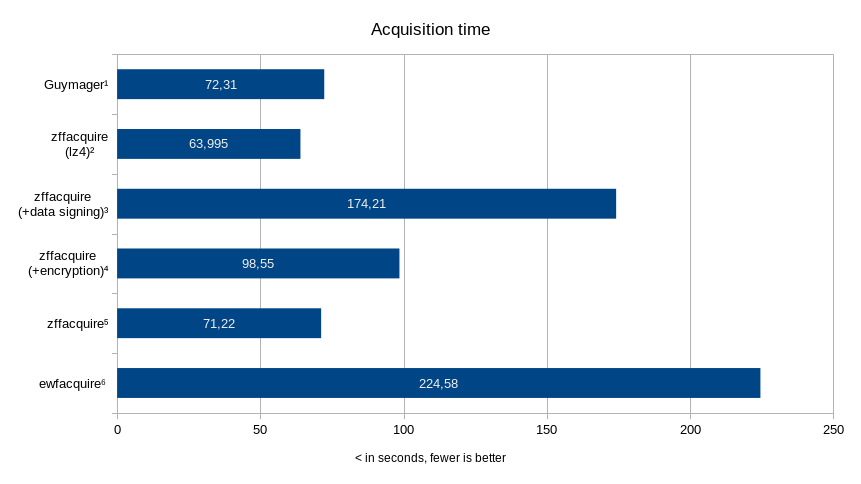
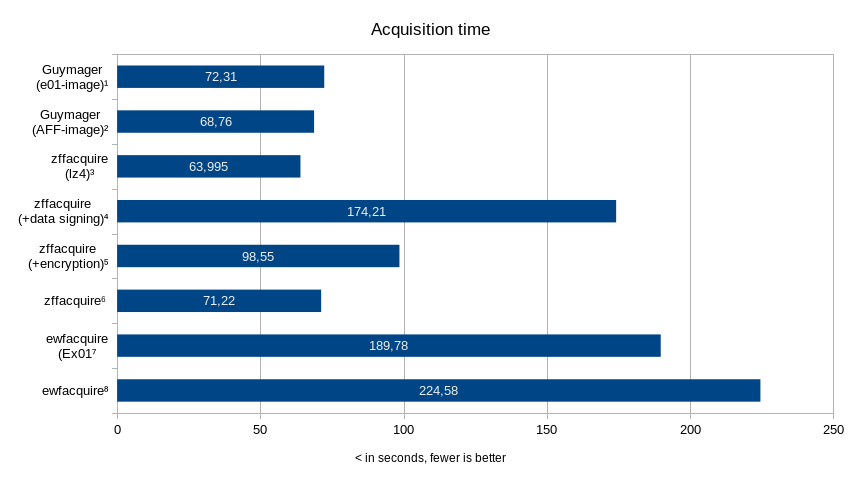
comparision to aff and Ex01 images added to benchmarks

Changed region(s): [[0.0302, 0.4959, 0.9059, 0.8368], [0.0, 0.124, 0.7247, 0.4649]]

diff --git a/README.md b/README.md
@@ -29,16 +29,18 @@ Input and output storage device was the internal NVMe.
 The following benchmark was created for a \~20GB prebuilt image, which was generated using the script under benchmarks/example01.sh.
 ![Acquisition time](https://github.com/ph0llux/zff/blob/master/benchmark/acquisition_time.png?raw=true)
 \
-¹Using Guymager 0.8.12, with MD5 hash calculation, without "HashVerifyDest".\
-²using ```zffacquire -i raw/example01.dd -o zff_lz4 -z lz4```\
-³using ```zffacquire -i raw/example01.dd -o zff -S```\
-⁴using ```zffacquire -i raw/example01.dd -o zff -p 123```\
-⁵using ```zffacquire -i raw/example01.dd -o zff```\
-⁶using ```ewfacquire example01.dd -t example01_ewf -b 64 -c fast -S 7.9EiB -u```, using ewfacquire 20171104.\
+¹Using Guymager 0.8.12, with the default guymager.cfg, MD5 hash calculation, without "HashVerifyDest".\
+²Using Guymager 0.8.12, with enabled Aff support and Aff compression level 1 in guymager.cfg, with MD5 hash calculation, without "HashVerifyDest".\
+³using ```zffacquire -i raw/example01.dd -o zff_lz4 -z lz4```\
+⁴using ```zffacquire -i raw/example01.dd -o zff -S```\
+⁵using ```zffacquire -i raw/example01.dd -o zff -p 123```\
+⁶using ```zffacquire -i raw/example01.dd -o zff```\
+⁷using ```ewfacquire example01.dd -t example01_ewf -f encase7-v2 -b 64 -c fast -S 7.9EiB -u```\
+⁸using ```ewfacquire example01.dd -t example01_ewf -b 64 -c fast -S 7.9EiB -u```, using ewfacquire 20171104.\
 
 As you can see, there are hardly any differences worth mentioning between the dump using Guymager and zffacquire. Using zffacquire with the default values gives no performance disadvantage. The situation is different, of course, with an additional signature operation (but the same would also apply to Guymager with "HashVerifyDest" and/or "HashVerifySrc" enabled).\
 \
-The two fastest images (The Guymager-e01-image, acquired in the benchmark process above and the zff-z01-image acquired with the default options of zffacquire, see above at number 4) were used as the basis for the read speed benchmark.
+The two fastest images (The Guymager-e01-image at number 1, acquired in the benchmark process above and the zff-z01-image acquired with the default options of zffacquire, see above at number 6), the acquired Ex01-image (number 7) and the acquired Aff-image (by Guymager, see number 2), were used as the basis for the read speed benchmark.
 For the benchmark, xmount and zffmount was used to FUSE mount the appropriate images. Next, dd was used to benchmark the read speed.
 The dd commands were applied 10 times and then an average value was calculated over the determined values.
 ![Read speed](https://github.com/ph0llux/zff/blob/master/benchmark/read_speed_dd.png?raw=true)\
@@ -48,6 +50,21 @@ zffmount -i zff.z01 -m /tmp/zffmount
 dd if=/tmp/zffmount/zff_image.dd of=/dev/null bs=1M
 ```
 ²The following commands were used:
+```bash
+affuse aff_image.aff /tmp/affmount
+dd if=/tmp/affmount/aff_example01.aff.raw of=/dev/null bs=1M
+```
+³The following commands were used:
+```bash
+xmount --in aff aff_image.aff /tmp/affmount
+dd if=/tmp/affmount/aff_image.dd of=/dev/null bs=1M
+```
+⁴The following commands were used:
+```bash
+xmount --in ewf ewfacquired.Ex01 /tmp/ewfmount
+dd if=/tmp/ewfmount/ewfacquired.dd of=/dev/null bs=1M
+```
+⁵The following commands were used:
 ```bash
 xmount --in ewf guymager.e01 /tmp/ewfmount
 dd if=/tmp/ewfmount/guymager.dd of=/dev/null b=1M
